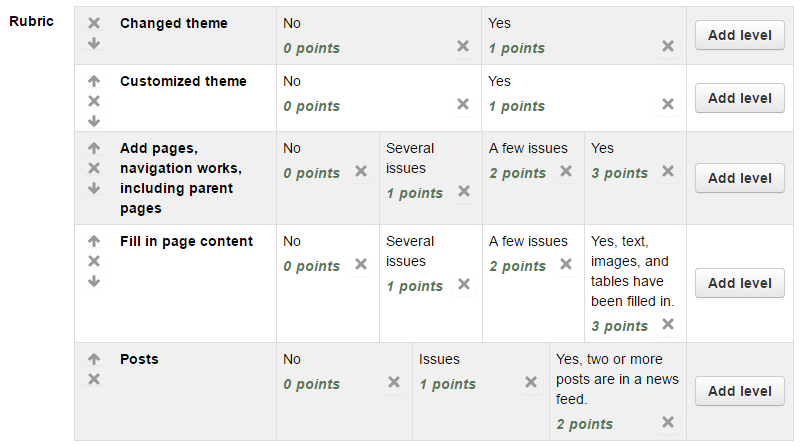
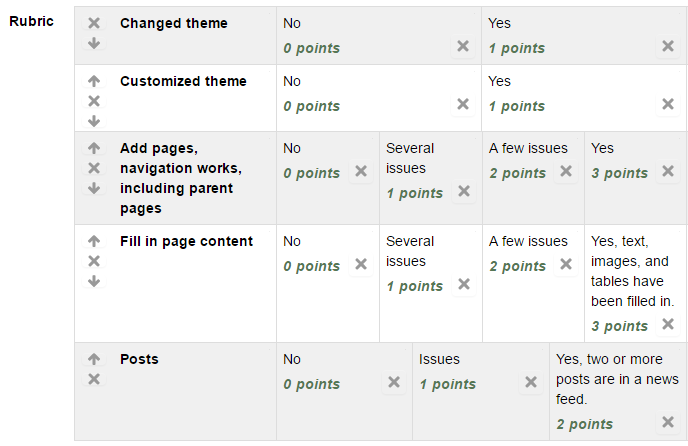
Update

diff --git a/source/assignments/wordpress_site/wordpress_site.rst b/source/assignments/wordpress_site/wordpress_site.rst
@@ -31,4 +31,4 @@ Assignment 10 - WordPress Site
 If you have time, play around with WordPress and figure out what you can do.
 
 .. image:: rubric.png
-    :width: 500px
+    :width: 550px
